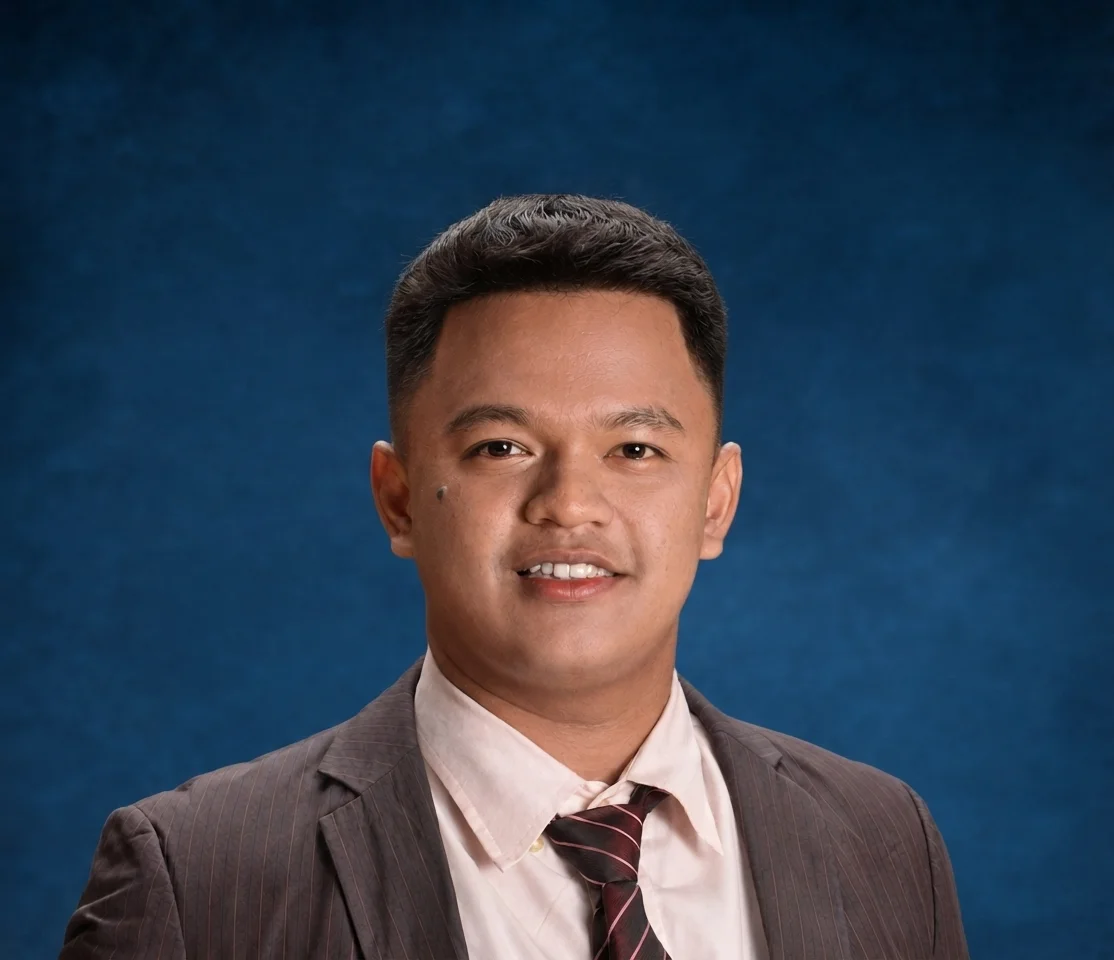
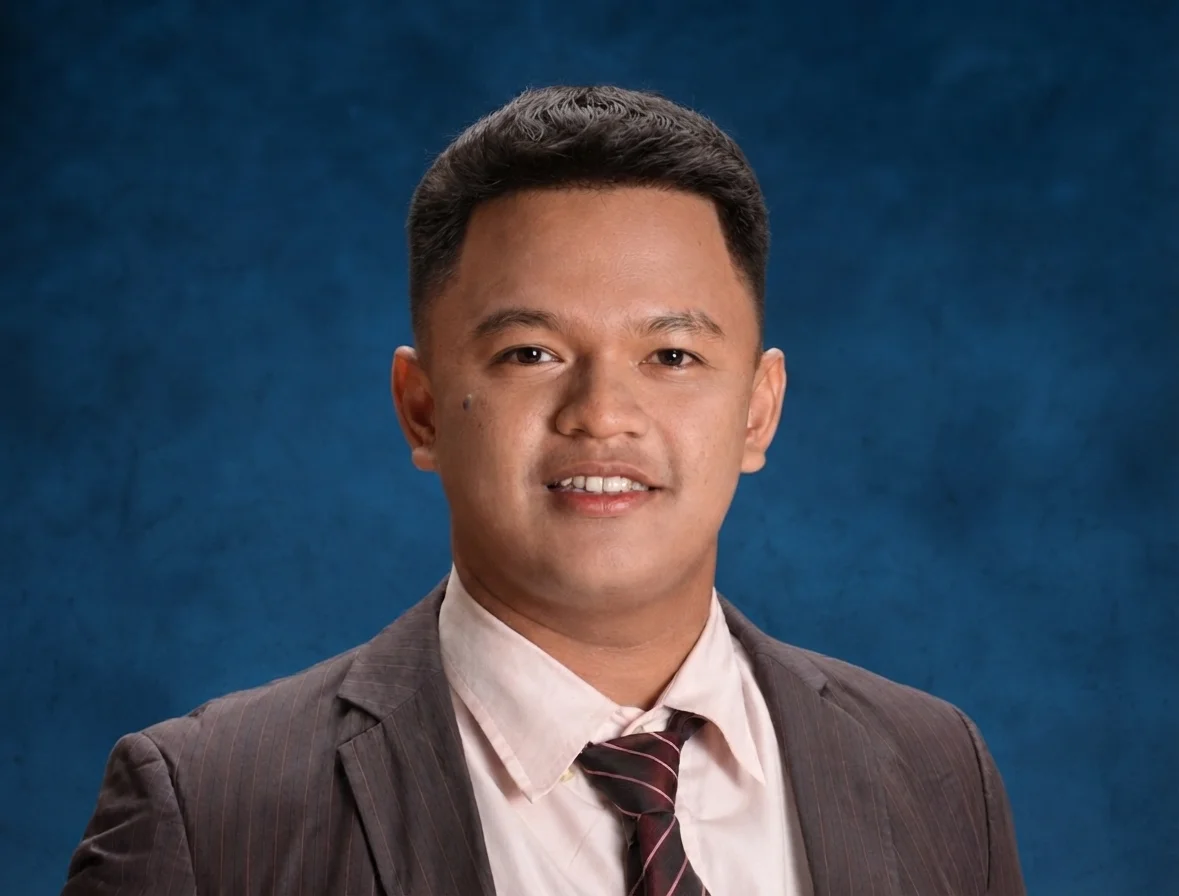
CE faculty arrange

diff --git a/civil-engineering.html b/civil-engineering.html
@@ -743,7 +743,7 @@
                                 <img src="assets/img/sanchez.webp" alt="Engr. Jomari Sanchez"
                                     class="w-full md:w-100 h-auto md:h-120 object-cover rounded-full">
                             </div>
-                            <h3 class="text-md font-semibold text-gray-900">Engr. Jomari Sanchez, RMP</h3>
+                            <h3 class="text-md font-semibold text-gray-900">Engr. Jomari Sanchez</h3>
                         </div>
 
                         <div class="text-center group relative transition-all hover:scale-105">
@@ -756,7 +756,7 @@
 
                         <div class="text-center group relative transition-all hover:scale-105">
                             <div class="mx-auto rounded-full flex items-center justify-center mb-4">
-                                <img src="assets/img/montecillo.webp" alt="Engr. John Philip Minancillio"
+                                <img src="assets/img/minancillio.webp" alt="Engr. John Philip Minancillio"
                                     class="w-full md:w-100 h-auto md:h-120 object-cover rounded-full">
                             </div>
                             <h3 class="text-md font-semibold text-gray-900">Engr. John Philip Minancillio</h3>
